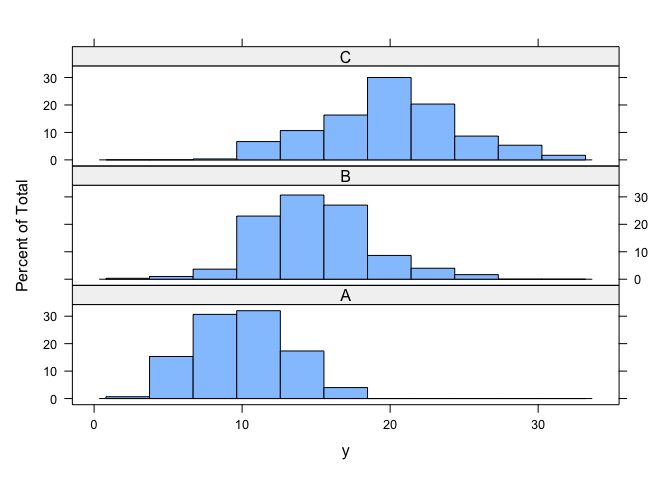
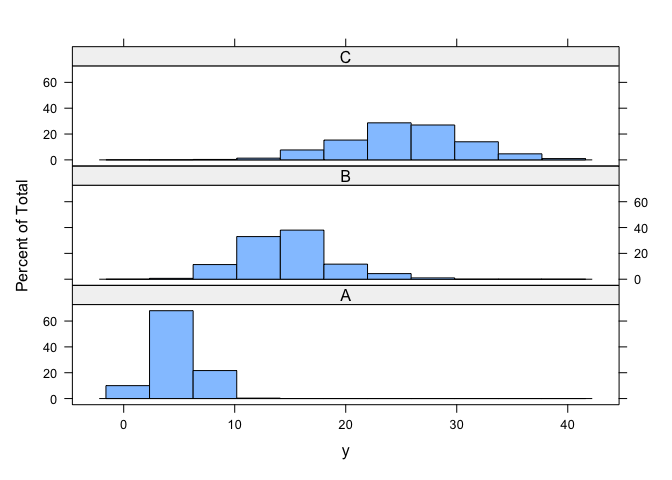
updated README

diff --git a/README.md b/README.md
@@ -44,9 +44,9 @@ set.seed(123)
 n <- 300
 
 dat <- data.frame(x = rep(c("A","B","C"), each = n),
-                  y = c(rpois(n, lambda = 10),
+                  y = c(rpois(n, lambda = 5),
                         rpois(n, lambda = 15),
-                        rpois(n, lambda = 20)))
+                        rpois(n, lambda = 25)))
 
 dat$x <- factor(dat$x)
 
@@ -70,52 +70,52 @@ summary(mod)
 #> Observations: 900 
 #> Missing observations: 0 
 #> Target groups: 3 
-#> Correctly classified observations: 612 
-#> Incorrectly classified observations: 288 
+#> Correctly classified observations: 794 
+#> Incorrectly classified observations: 106 
 #> Ambiguously classified observations: 0 
-#> PCC: 68 
+#> PCC: 88.22 
 #> 
 #> ********** Randomisation Test **********
 #> Random reorderings: 1000 
-#> Minimum random PCC: 35.22 
-#> Maximum random PCC: 44.78 
+#> Minimum random PCC: 36.56 
+#> Maximum random PCC: 46.22 
 #> Chance-value: 0 
 #> 
 #>     individual observation target prediction  accuracy
-#> 1            1           8      A          A   correct
-#> 2            2           9      A          A   correct
-#> 3            3          14      A          B incorrect
-#> 4            4          10      A          A   correct
-#> 5            5          10      A          A   correct
-#> 6            6          15      A          B incorrect
-#> 7            7          11      A          A   correct
-#> 8            8           5      A          A   correct
-#> 9            9           4      A          A   correct
-#> 10          10          13      A          B incorrect
-#> 11          11          11      A          A   correct
-#> 12          12          11      A          A   correct
-#> 13          13          10      A          A   correct
-#> 14          14           8      A          A   correct
-#> 15          15          15      A          B incorrect
-#> 16          16          11      A          A   correct
-#> 17          17           3      A          B incorrect
-#> 18          18           7      A          A   correct
-#> 19          19           6      A          A   correct
-#> 20          20           8      A          A   correct
-#> 21          21           6      A          A   correct
-#> 22          22           8      A          A   correct
-#> 23          23           4      A          A   correct
-#> 24          24           6      A          A   correct
+#> 1            1           4      A          A   correct
+#> 2            2           7      A          A   correct
+#> 3            3           4      A          A   correct
+#> 4            4           8      A          A   correct
+#> 5            5           9      A          B incorrect
+#> 6            6           2      A          A   correct
+#> 7            7           5      A          A   correct
+#> 8            8           8      A          A   correct
+#> 9            9           5      A          A   correct
+#> 10          10           5      A          A   correct
+#> 11          11           9      A          B incorrect
+#> 12          12           5      A          A   correct
+#> 13          13           6      A          A   correct
+#> 14          14           5      A          A   correct
+#> 15          15           2      A          A   correct
+#> 16          16           8      A          A   correct
+#> 17          17           3      A          A   correct
+#> 18          18           2      A          A   correct
+#> 19          19           4      A          A   correct
+#> 20          20           9      A          B incorrect
+#> 21          21           8      A          A   correct
+#> 22          22           6      A          A   correct
+#> 23          23           6      A          A   correct
+#> 24          24          11      A          B incorrect
 #> 25          25           6      A          A   correct
-#> 26          26           8      A          A   correct
+#> 26          26           6      A          A   correct
 #> 27          27           5      A          A   correct
-#> 28          28          12      A          B incorrect
-#> 29          29          12      A          B incorrect
-#> 30          30          12      A          B incorrect
-#> 31          31          12      A          B incorrect
-#> 32          32          11      A          A   correct
-#> 33          33           9      A          A   correct
-#> 34          34           9      A          A   correct
+#> 28          28           5      A          A   correct
+#> 29          29           4      A          A   correct
+#> 30          30           3      A          A   correct
+#> 31          31           9      A          B incorrect
+#> 32          32           8      A          A   correct
+#> 33          33           6      A          A   correct
+#> 34          34           7      A          A   correct
 ...
 ```
 
